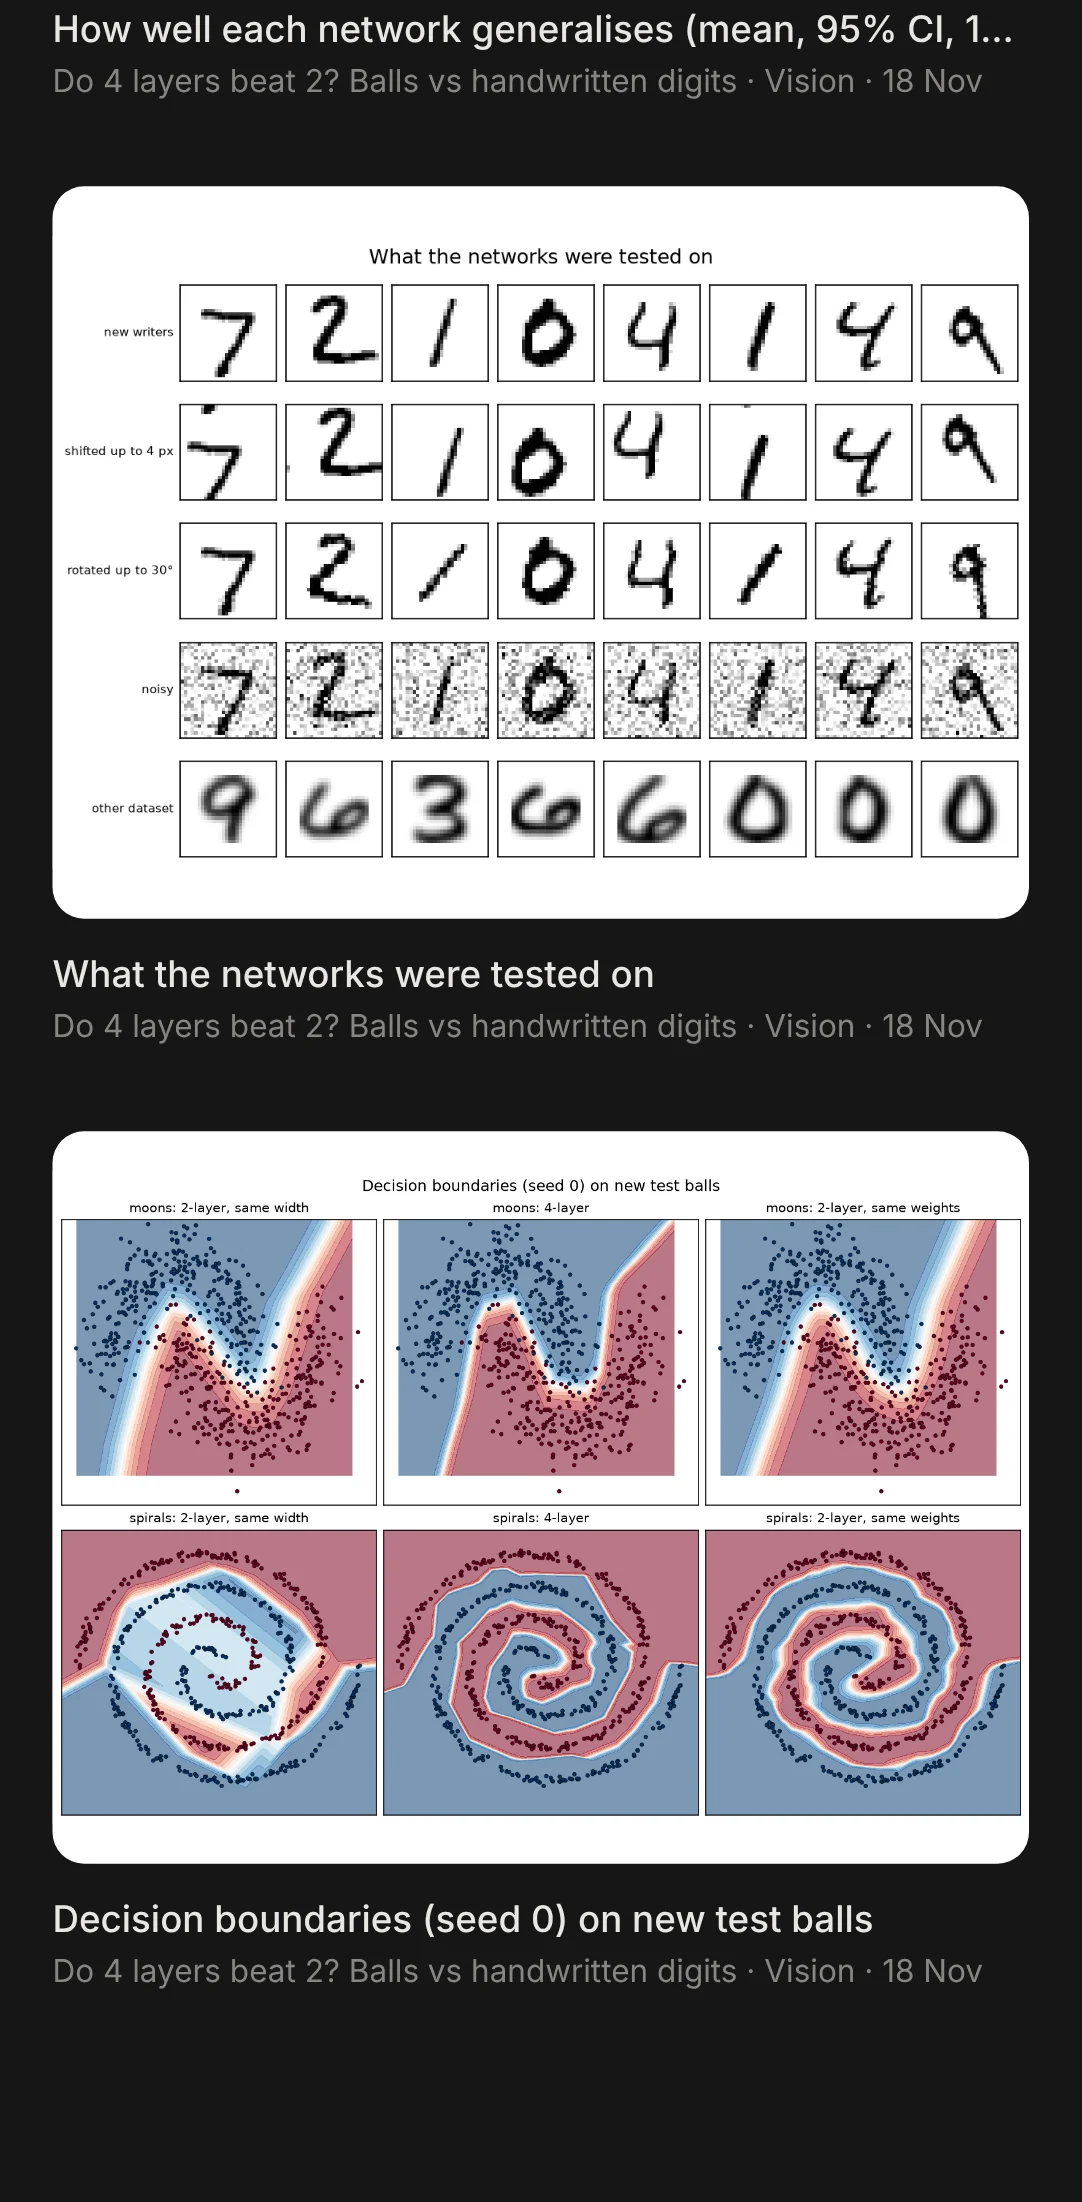
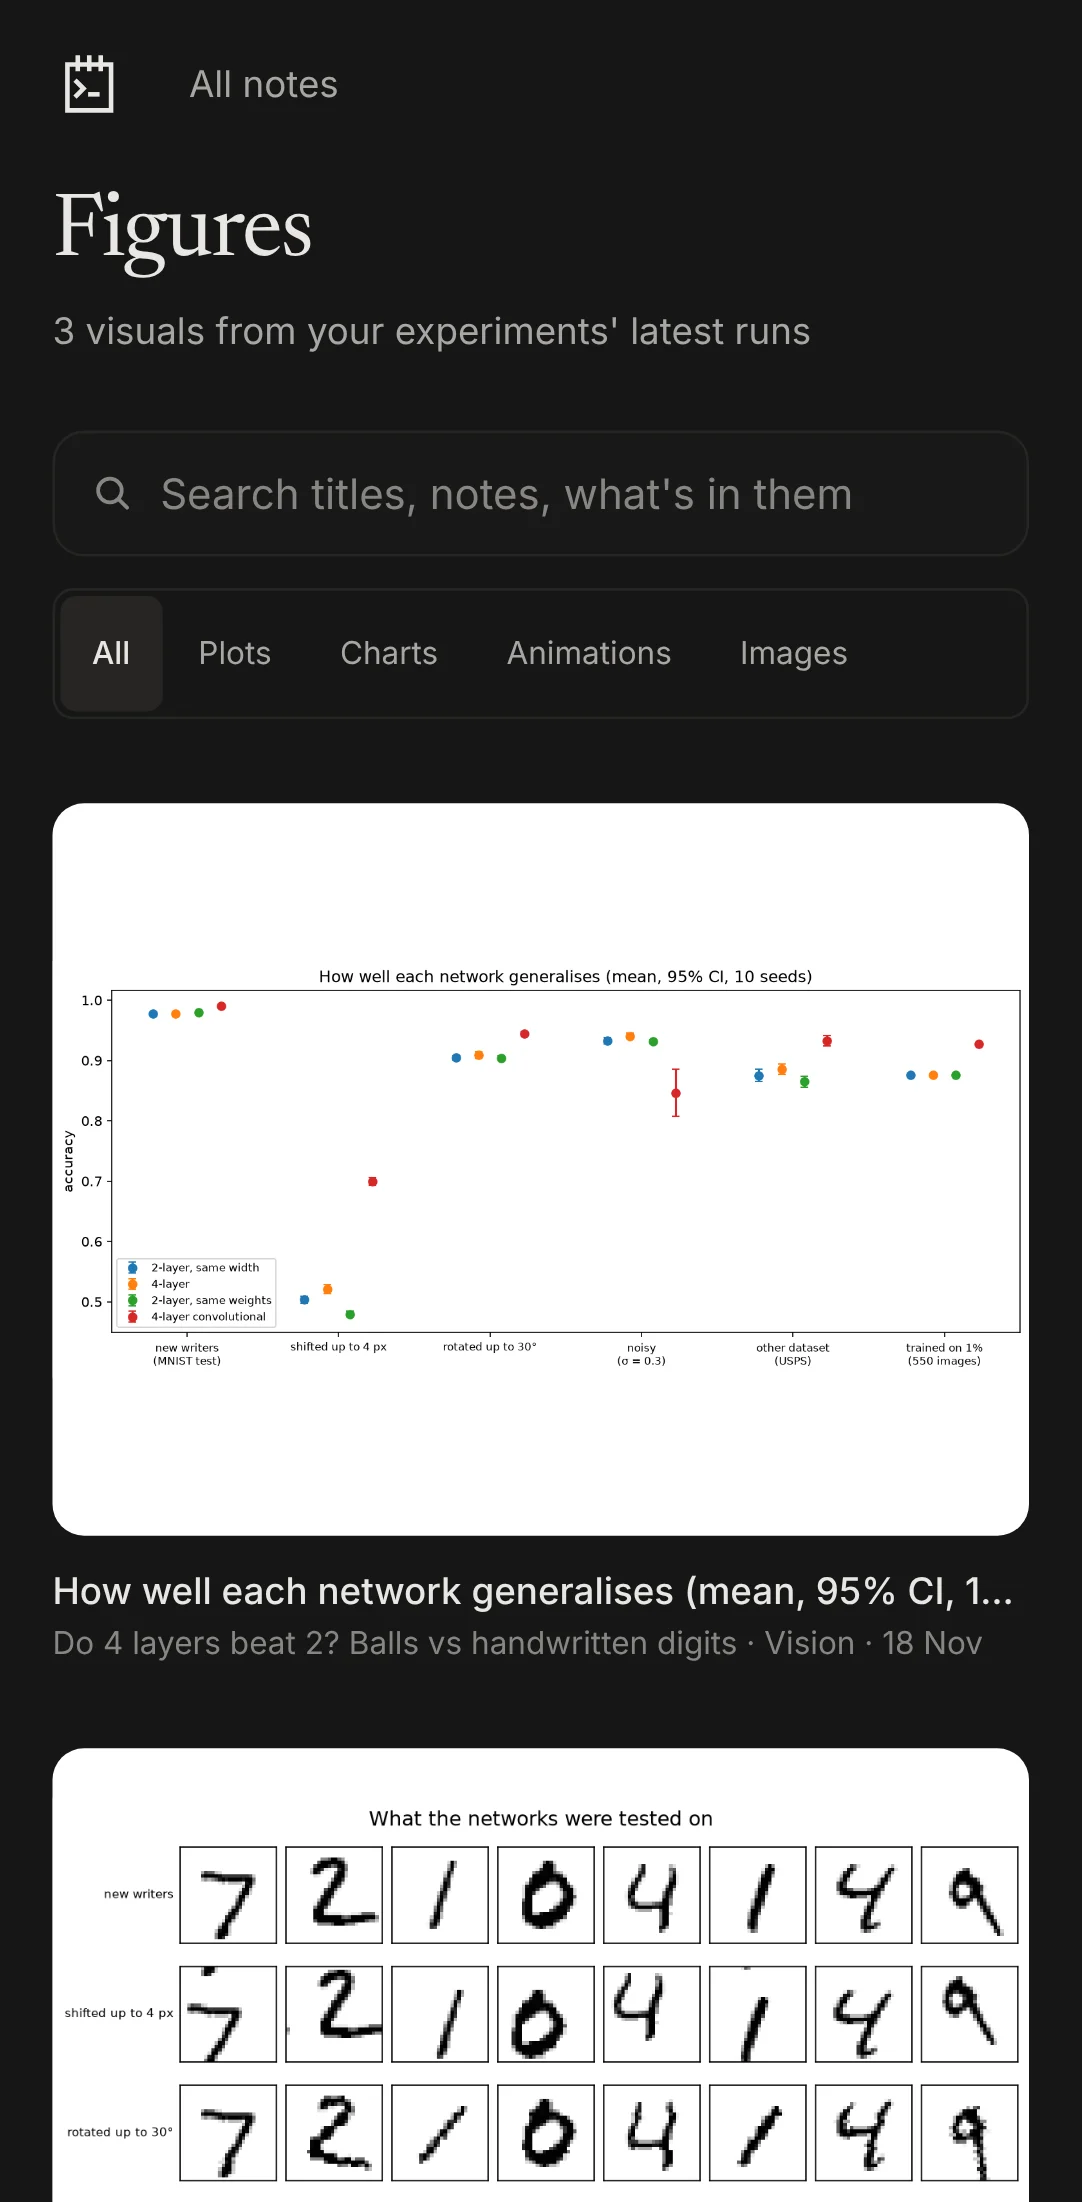
Landing: the first picture is a note with a run's figure and what happened; the notes list is back as the tour's last tab
Claude-Session: https://claude.ai/code/session_01PH7Y38AwikdtxWjEqjHwBS

diff --git a/src/app/page.tsx b/src/app/page.tsx
@@ -17,6 +17,7 @@ const SCREENS: readonly TourScreen[] = [
   { id: "data", label: "Data", title: "Real data from five platforms", text: "Search Hugging Face, Zenodo, OpenML, Harvard Dataverse and figshare at once, upload a file, or add one by its address. Any cell opens it by name; save_data() keeps what a cell downloads.", ...shot("data") },
   { id: "figures", label: "Figures", title: "Every figure in one place", text: "Plots, charts and animations from all your notes, searchable. Each opens at its cell and downloads as PNG, SVG or PDF.", ...shot("figures") },
   { id: "map", label: "Research map", title: "See how your work connects", text: "Links, sub-notes and new attempts, drawn as a map. Filled dots worked, red ones failed, hollow ones aren't marked yet.", ...shot("map") },
+  { id: "notes", label: "Notes", title: "One note per experiment", text: "Projects, pinned notes, notes shared with you, and search across titles, notes and code. The same notes on Android, offline too.", ...shot("notes") },
 ];
 
 // Home: the list for signed-in users; for everyone else, the product: a promise, the app itself (real
@@ -58,10 +59,10 @@ export default async function Home() {
           <section aria-label="Benchjot" className="relative mt-14 lg:mt-20">
             <div aria-hidden className="pointer-events-none absolute -inset-x-10 -top-24 h-[420px] bg-[radial-gradient(60%_60%_at_50%_40%,color-mix(in_oklab,var(--fg)_9%,transparent),transparent)]" />
             <div className="relative hidden overflow-hidden rounded-2xl border border-line shadow-float sm:block">
-              <Image src="/showcase/notes.webp" alt="Your notes in Benchjot: projects, pinned notes, shared notes and search" width={2880} height={1800} priority sizes="(min-width: 1280px) 1160px, 95vw" className="h-auto w-full" />
+              <Image src="/showcase/note-figure.webp" alt="A note in Benchjot: a run's figure, kept with its code, and what happened written after it" width={2880} height={1800} priority sizes="(min-width: 1280px) 1160px, 95vw" className="h-auto w-full" />
             </div>
             <div className="relative mx-auto w-[82%] max-w-[360px] overflow-hidden rounded-[28px] border border-line shadow-float sm:hidden">
-              <Image src="/showcase/notes-phone.webp" alt="Your notes on a phone" width={1082} height={2202} priority sizes="82vw" className="h-auto w-full" />
+              <Image src="/showcase/note-figure-phone.webp" alt="A note on a phone: a run's figure and what happened" width={1082} height={2202} priority sizes="82vw" className="h-auto w-full" />
             </div>
           </section>
 

diff --git a/tests/note-preview.test.tsx b/tests/note-preview.test.tsx
@@ -64,11 +64,11 @@ describe("landing note preview", () => {
   });
 
   it("the landing shows the app itself: real screens captured from it, a tour of its parts", () => {
-    expect(page.indexOf("<h1")).toBeLessThan(page.indexOf("/showcase/notes.webp")); // the notes list leads; the tour starts with the Assistant
-    expect(page).not.toContain('id: "notes"'); // and doesn't show the list again
+    expect(page.indexOf("<h1")).toBeLessThan(page.indexOf("/showcase/note-figure.webp")); // a note with a run's figure leads
+    expect(page.indexOf('id: "assistant"')).toBeLessThan(page.indexOf('id: "notes"')); // the tour starts with the Assistant, ends with the list
     expect(page).toContain("<ScreenTour screens={SCREENS} />");
     expect(page).toContain("Screens from the app, with a sample account.");
-    for (const name of ["note", "note-assistant", "note-cell", "note-runs", "data", "figures", "map", "notes"])
+    for (const name of ["note", "note-figure", "note-assistant", "note-cell", "note-runs", "data", "figures", "map", "notes"])
       for (const f of [name, `${name}-phone`]) expect(existsSync(new URL(`../public/showcase/${f}.webp`, import.meta.url)), f).toBe(true);
     expect(readFileSync(new URL("../scripts/capture-showcase.mjs", import.meta.url), "utf8")).toContain("public/showcase/");
     expect(showcase).toContain("setTimeout(() => setAt((i) => (i + 1) % screens.length), STEP_MS)"); // moves on by itself
